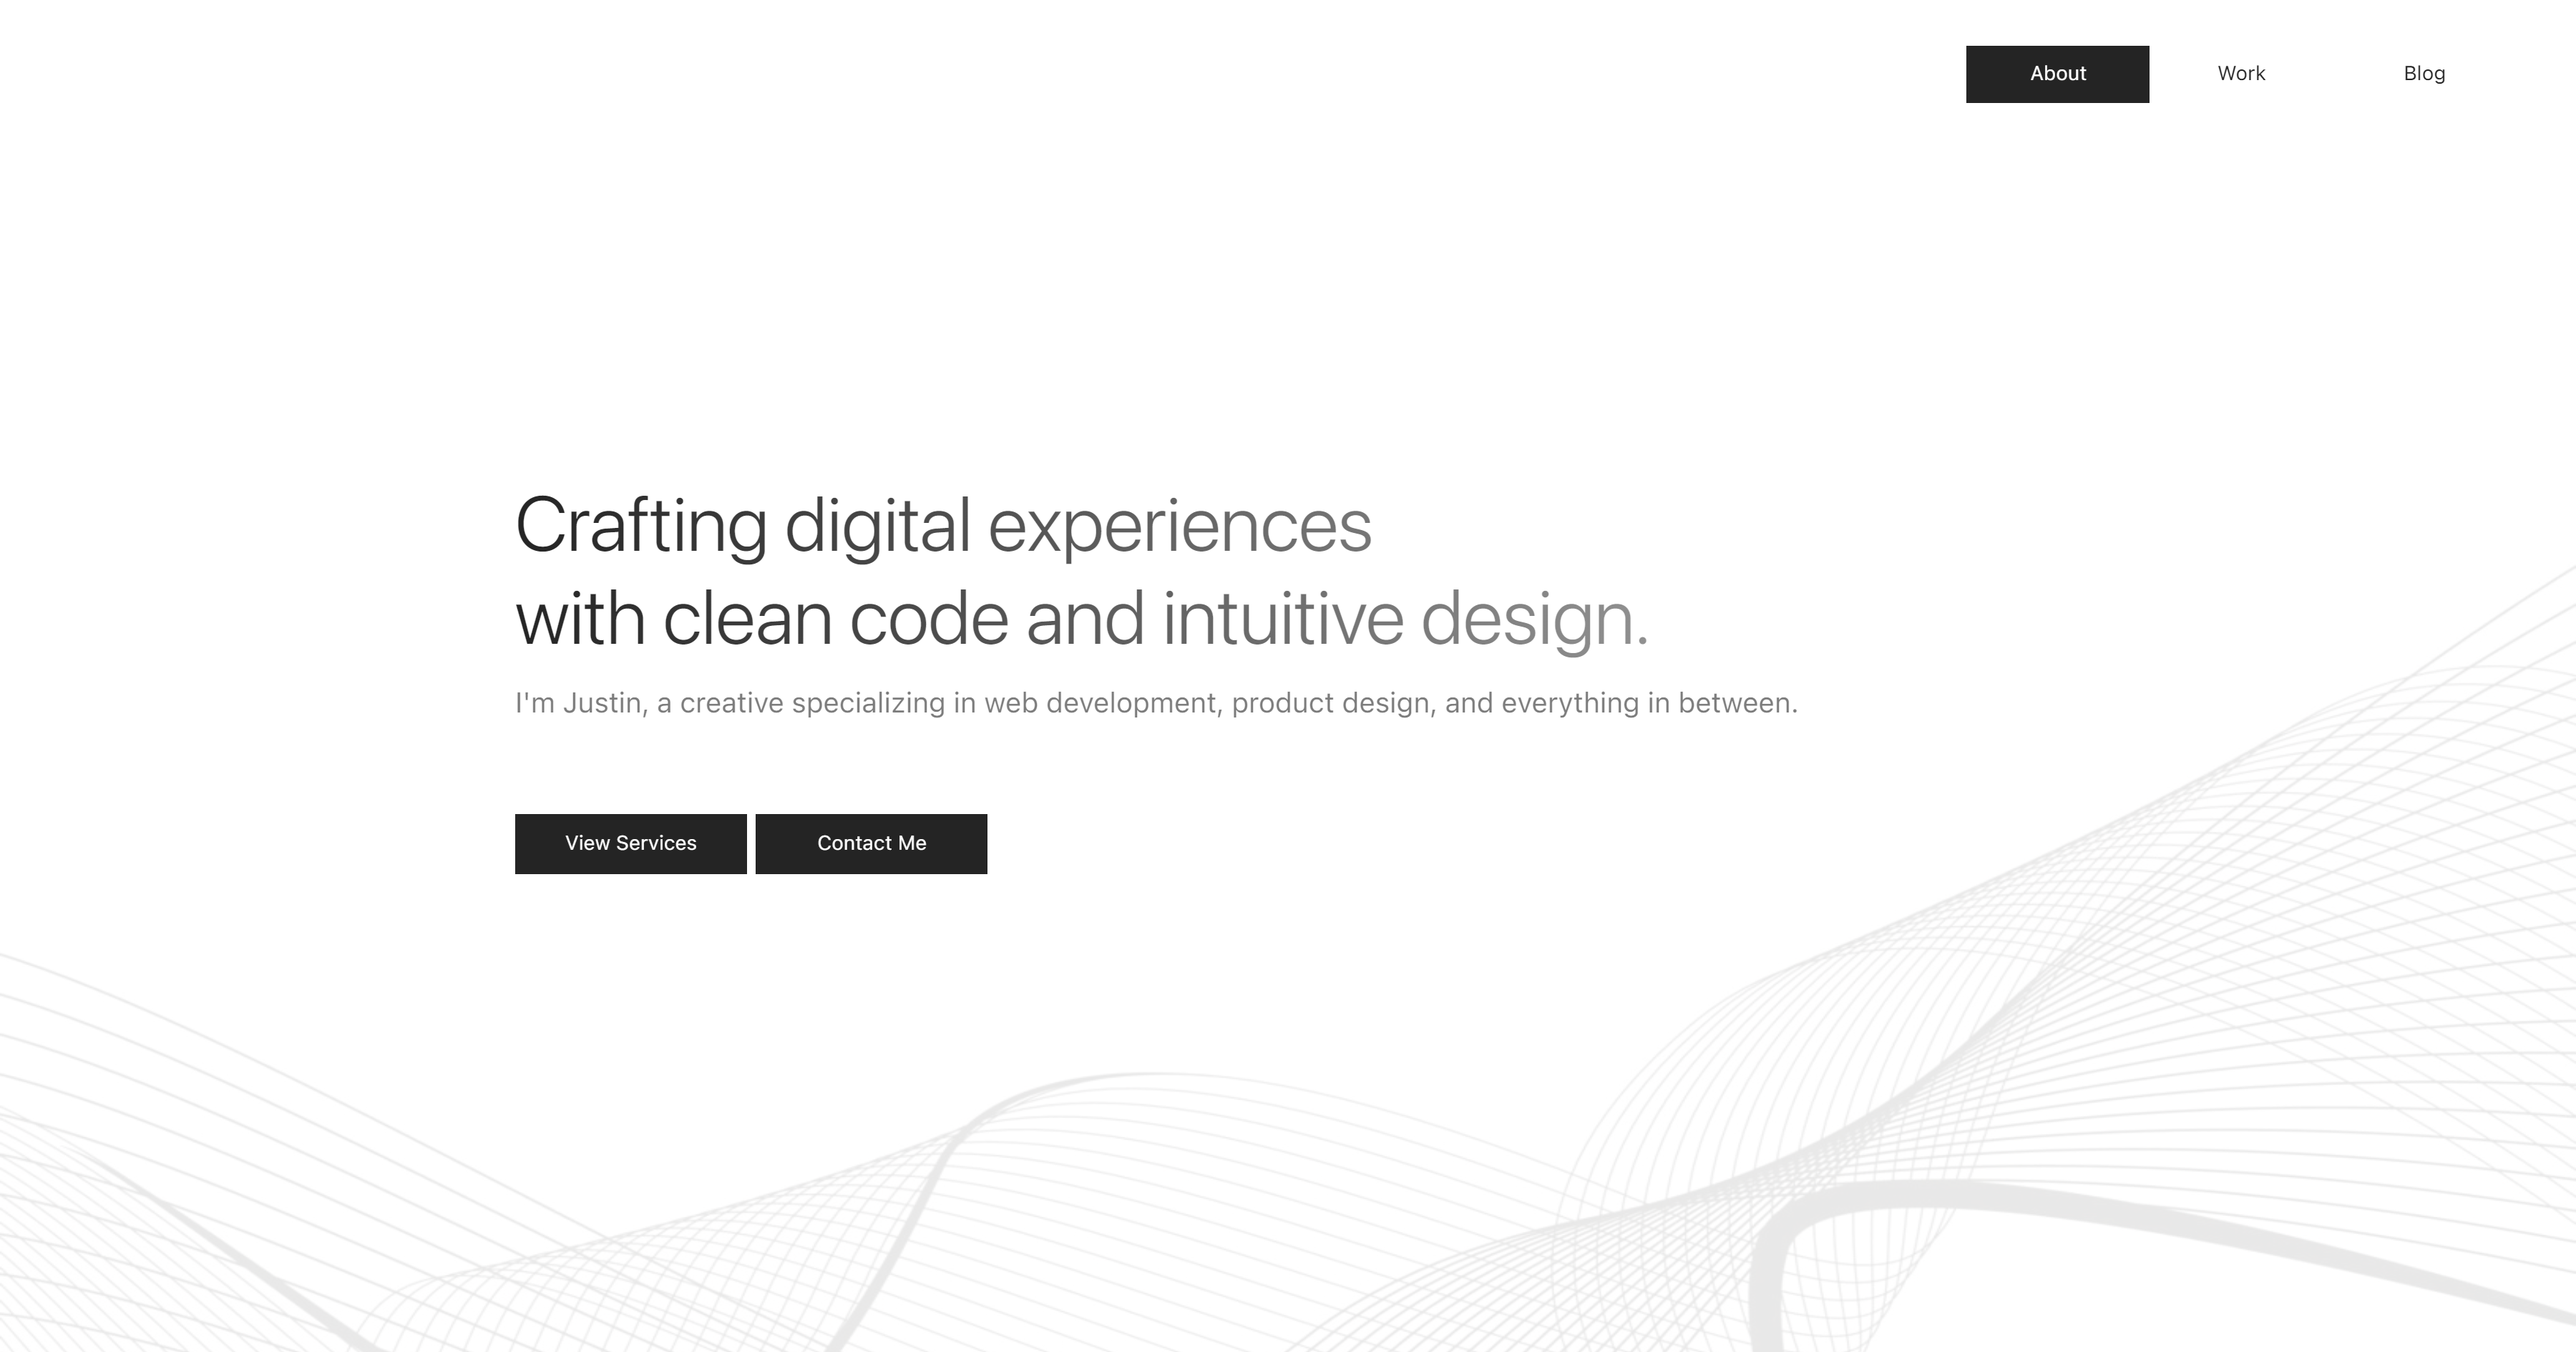
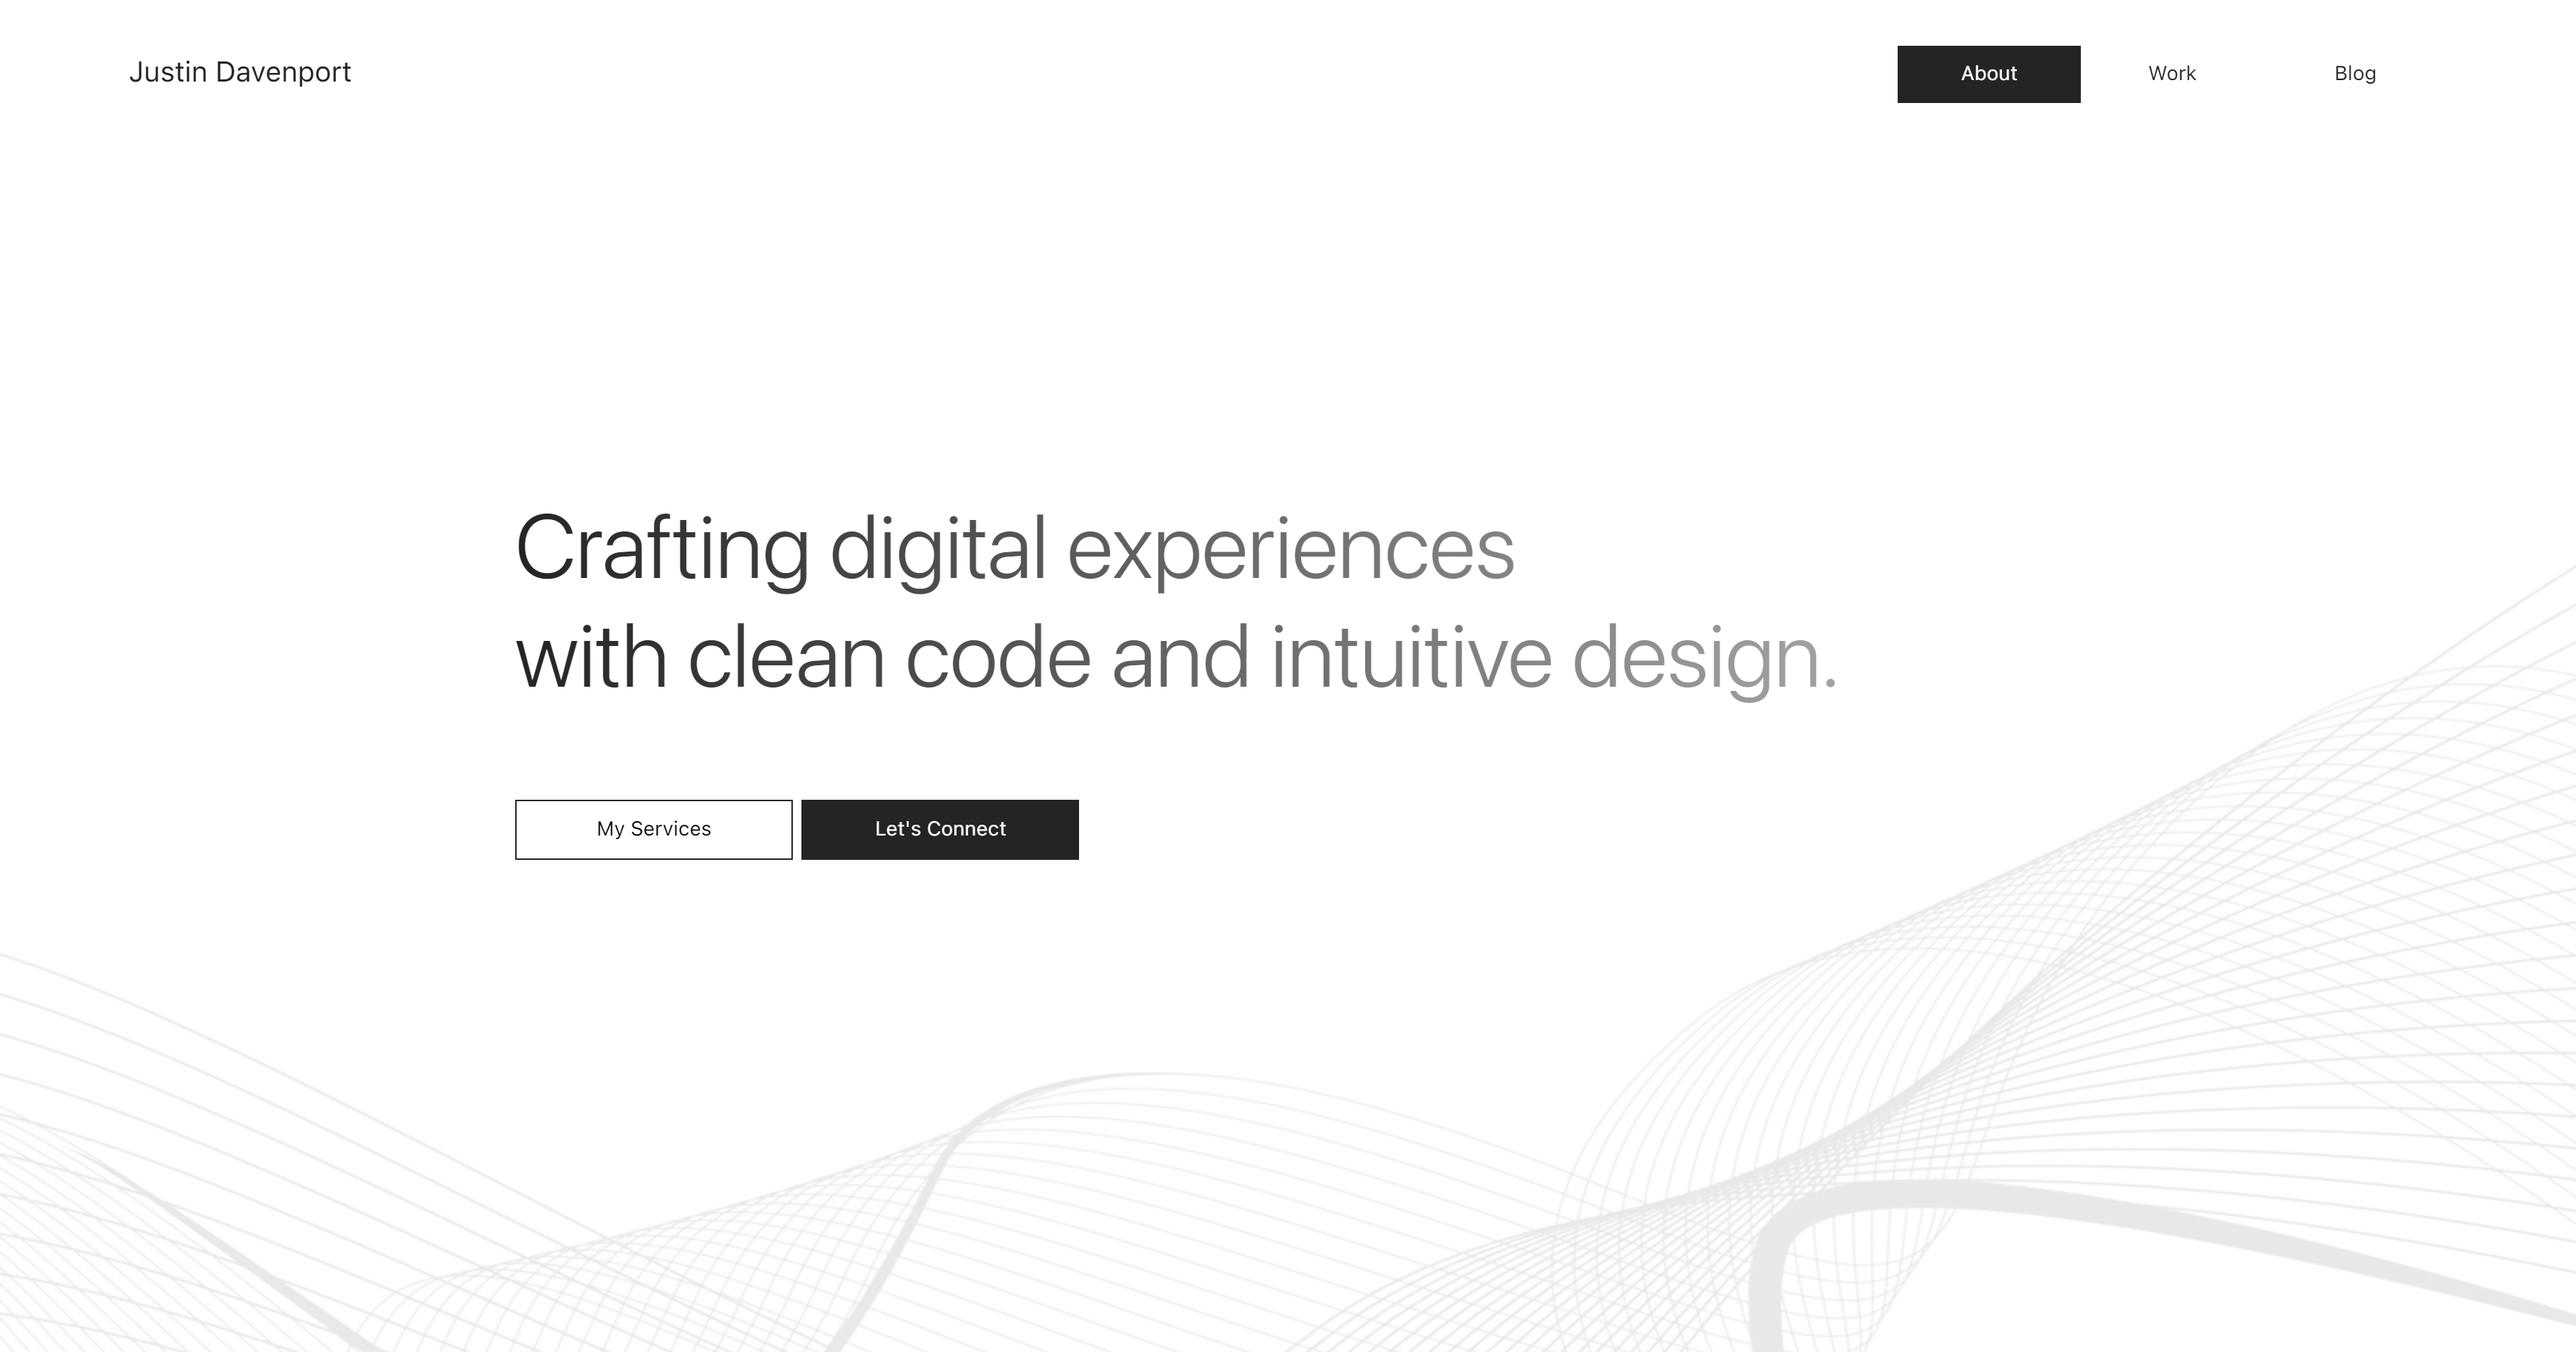
+

diff --git a/src/app/page.tsx b/src/app/page.tsx
@@ -91,13 +91,15 @@ export default function Home() {
       <div className="background"></div>
       <div className="overlay"></div>
 
+      <span className="logo">Justin Davenport</span>
+
       <button
         className="nav-mobile"
         onClick={() => setNavPanel(!navPanel)}
         style={{
           position: "fixed",
           top: "2rem",
-          right: "2rem",
+          right: "5%",
           zIndex: "6",
         }}
       >
@@ -210,37 +212,35 @@ export default function Home() {
       </div>
 
       <nav ref={nav}>
-        <div className="nav">
-          <div className="nav-nav">
-            <div className="nav-links">
-              <div
-                className="nav-slider"
-                style={{
-                  transform: `translateX(${translateX})`,
-                }}
-              ></div>
-              <button
-                style={{ color: translateX === "-100%" ? "white" : "" }}
-                onClick={() => setTranslateX("-100%")}
-                aria-label="Work"
-              >
-                About
-              </button>
-              <button
-                style={{ color: translateX === "0%" ? "white" : "" }}
-                onClick={() => setTranslateX("0%")}
-                aria-label="Work"
-              >
-                Work
-              </button>
-              <button
-                style={{ color: translateX === "100%" ? "white" : "" }}
-                onClick={() => setTranslateX("100%")}
-                aria-label="Blog"
-              >
-                Blog
-              </button>
-            </div>
+        <div className="nav-nav">
+          <div className="nav-links">
+            <div
+              className="nav-slider"
+              style={{
+                transform: `translateX(${translateX})`,
+              }}
+            ></div>
+            <button
+              style={{ color: translateX === "-100%" ? "white" : "" }}
+              onClick={() => setTranslateX("-100%")}
+              aria-label="Work"
+            >
+              About
+            </button>
+            <button
+              style={{ color: translateX === "0%" ? "white" : "" }}
+              onClick={() => setTranslateX("0%")}
+              aria-label="Work"
+            >
+              Work
+            </button>
+            <button
+              style={{ color: translateX === "100%" ? "white" : "" }}
+              onClick={() => setTranslateX("100%")}
+              aria-label="Blog"
+            >
+              Blog
+            </button>
           </div>
         </div>
       </nav>
@@ -272,7 +272,7 @@ export default function Home() {
                 <br />
                 with clean code and intuitive design.
               </h1>
-              <div style={{ marginTop: "0.8rem" }}>
+              {/* <div style={{ marginTop: "0.8rem" }}>
                 <span
                   style={{
                     color: "rgb(36, 36, 36, 0.6)",
@@ -283,7 +283,7 @@ export default function Home() {
                   I&apos;m Justin, a creative specializing in web development,
                   product design, and everything in between.
                 </span>
-              </div>
+              </div> */}
               <div
                 style={{
                   display: "flex",
@@ -303,15 +303,20 @@ export default function Home() {
                 >
                   <button
                     className="button"
+                    style={{
+                      background: "white",
+                      border: "1px solid rgb(36, 36, 36)",
+                      color: "black",
+                    }}
                     onClick={() => scrollTo(servicesDiv)}
                   >
-                    View Services
+                    My Services
                   </button>
                   <button
                     className="button"
                     onClick={() => scrollTo(contactDiv)}
                   >
-                    Contact Me
+                    Let&apos;s Connect
                   </button>
                 </div>
               </div>
@@ -549,7 +554,6 @@ export default function Home() {
 
           <Work translateX={translateX} />
           <Articles translateX={translateX} />
-          {/* <Footer /> */}
 
           <div
             className="container-holder"

diff --git a/src/app/globals.css b/src/app/globals.css
@@ -52,7 +52,7 @@
   }
 
   h1 {
-    font-size: clamp(28px, 6vw, 54px);
+    font-size: clamp(28px, 6vw, 3.5vw);
     font-weight: 300;
     line-height: 1.2;
   }
@@ -108,7 +108,7 @@
     justify-content: center;
     align-items: center;
     position: relative;
-    width: 10rem;
+    width: 12rem;
     height: 2.5rem;
     transition: 300ms ease;
   }
@@ -155,20 +155,20 @@
     display: block;
   }
 
+  .logo {
+    position: absolute;
+    top: 1.75rem;
+    left: 5%;
+  }
+
   nav {
     display: none;
     justify-content: center;
     position: fixed;
     top: 2rem;
+    right: 5%;
     transition: 0.3s;
-    width: 100%;
     z-index: 5;
-  }
-
-  .nav {
-    display: flex;
-    justify-content: center;
-    width: 95%;
   }
 
   .nav-slider {
@@ -186,11 +186,6 @@
     justify-content: center;
     align-items: center;
     min-width: fit-content;
-    /* backdrop-filter: blur(8px);
-    -webkit-backdrop-filter: blur(8px);
-    background: #f5f5f540;
-    border: 1px solid #f5f5f5; */
-    /* padding: .25rem; */
   }
 
   .nav-links {
@@ -439,14 +434,6 @@
 
   nav {
     display: flex;
-    width: fit-content;
-    right: 2rem;
-  }
-
-  .toggle-holder {
-    position: sticky;
-    top: 2rem;
-    z-index: 4;
   }
 
   .toggle-btn-holder {
@@ -460,13 +447,13 @@
       display: flex;
     }
   }
+
+  .logo {
+    top: 2rem;
+  }
 }
 
 @media (min-width: 999px) {
-  .nav {
-    justify-content: right;
-  }
-
   .project {
     padding: 4rem;
     max-width: 960px;
@@ -489,9 +476,21 @@
   }
 
   .container-title,
-  .container-splash,
-  footer {
+  .container-splash {
     width: 60%;
+  }
+
+  footer {
+    width: 80%;
+  }
+
+  .toggle-holder {
+    position: sticky;
+    top: 2rem;
+  }
+
+  .logo {
+    position: fixed;
   }
 }
 
